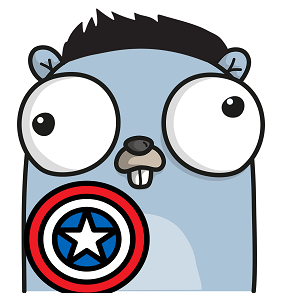
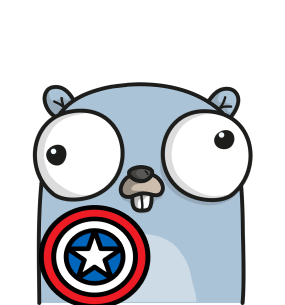
profile pic removed from first page

diff --git a/index.html b/index.html
@@ -5,7 +5,6 @@ alt_title: "Hi, I'm Jasper"
 sub_title: "Service Delivery Tech Lead (DevOps) @ [bet365](https://bet365.com)"
 image: /assets/images/coffeechill.jpg
 introduction: |
-  <div class="intro-jd-div align-left"><img class="intro-jd" src="/assets/images/profile.png" alt="Profile Pic"></div>
   Welcome to my personal & blog website!  
   
   Yet another tattooed IT guy...  I'm often found in sunny Stoke-on-Trent as some kind of Design/Technology hybrid.  

diff --git a/about.md b/about.md
@@ -12,6 +12,6 @@ After failed attempts at becoming a fighter pilot and then a medical doctor, I d
 
 So I decided to cut my student loan losses, dropping-out over one Christmas.  The prodigal son had returned!  Short of signing-on at the job centre it wasn’t long before I found part-time work in the local off-license and a place on an IT apprenticeship.  
 
-I suppose from there the rest is history. From service desks, Cat5e cabling, web design and software testing to the online Sports Betting & Gaming industry, I’ve muddled my way through a number of engineering and delivery focused roles.  I enjoy learning, trying to keep up with the latest / emerging tech and collaborating with other passionate and truly skilled people.
+I suppose from there the rest is history. From service desks, Cat5e cabling, web design and software testing to the online Sports Betting & Gaming industry. I’ve muddled my way through a number of engineering and delivery focused roles.  I enjoy learning, trying to keep up with the latest / emerging tech and collaborating with other passionate and truly skilled people.
 
 I believe we are part of another technological revolution and I’m genuinely excited to see what the future brings!  In my spare time my interests also lie with Rugby Union, Man U, and Sci-Fi.

diff --git a/recipes.md b/recipes.md
@@ -6,4 +6,4 @@ collection: recipes
 entries_layout: grid
 ---
 
-Sample document listing for the collection `_recipes`.
+Random collection of recipes.

diff --git a/categories.md b/categories.md
@@ -1,5 +1,5 @@
 ---
-title: -Category
+title: -category
 layout: categories
 permalink: /categories/
 ---

diff --git a/tags.md b/tags.md
@@ -1,5 +1,5 @@
 ---
-title: -Tags
+title: -tags
 layout: tags
 permalink: /tags/
 ---
